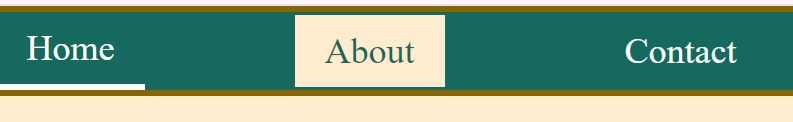
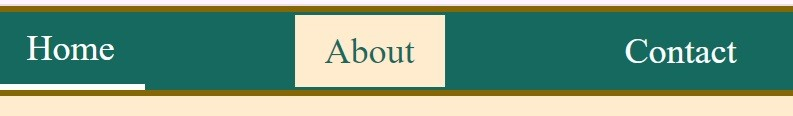
resized screenshots and put back into readme

diff --git a/README.md b/README.md
@@ -12,8 +12,7 @@ There are some features included in this site;
 
 ### 1- Navigational bar consisting of Home, About and Contact sections
 The navigational bar has a hover over function which reverses the colours so it is easy to see they are on or about to click on the sections and they also have an underline to show they are on the page.
-<img src="assets/images/navbar.jpg">
-<img src="assets/images/navbar2.jpg">
+<img src="assets/images/navbar.jpg"> <img src="assets/images/navbar2.jpg">
 
 ### 2- Social media network links at the bottom footer with thier icons for all the three pages.
 Both the navigational and footer bars remain fixed during scrolling. All links open on a separate page.
